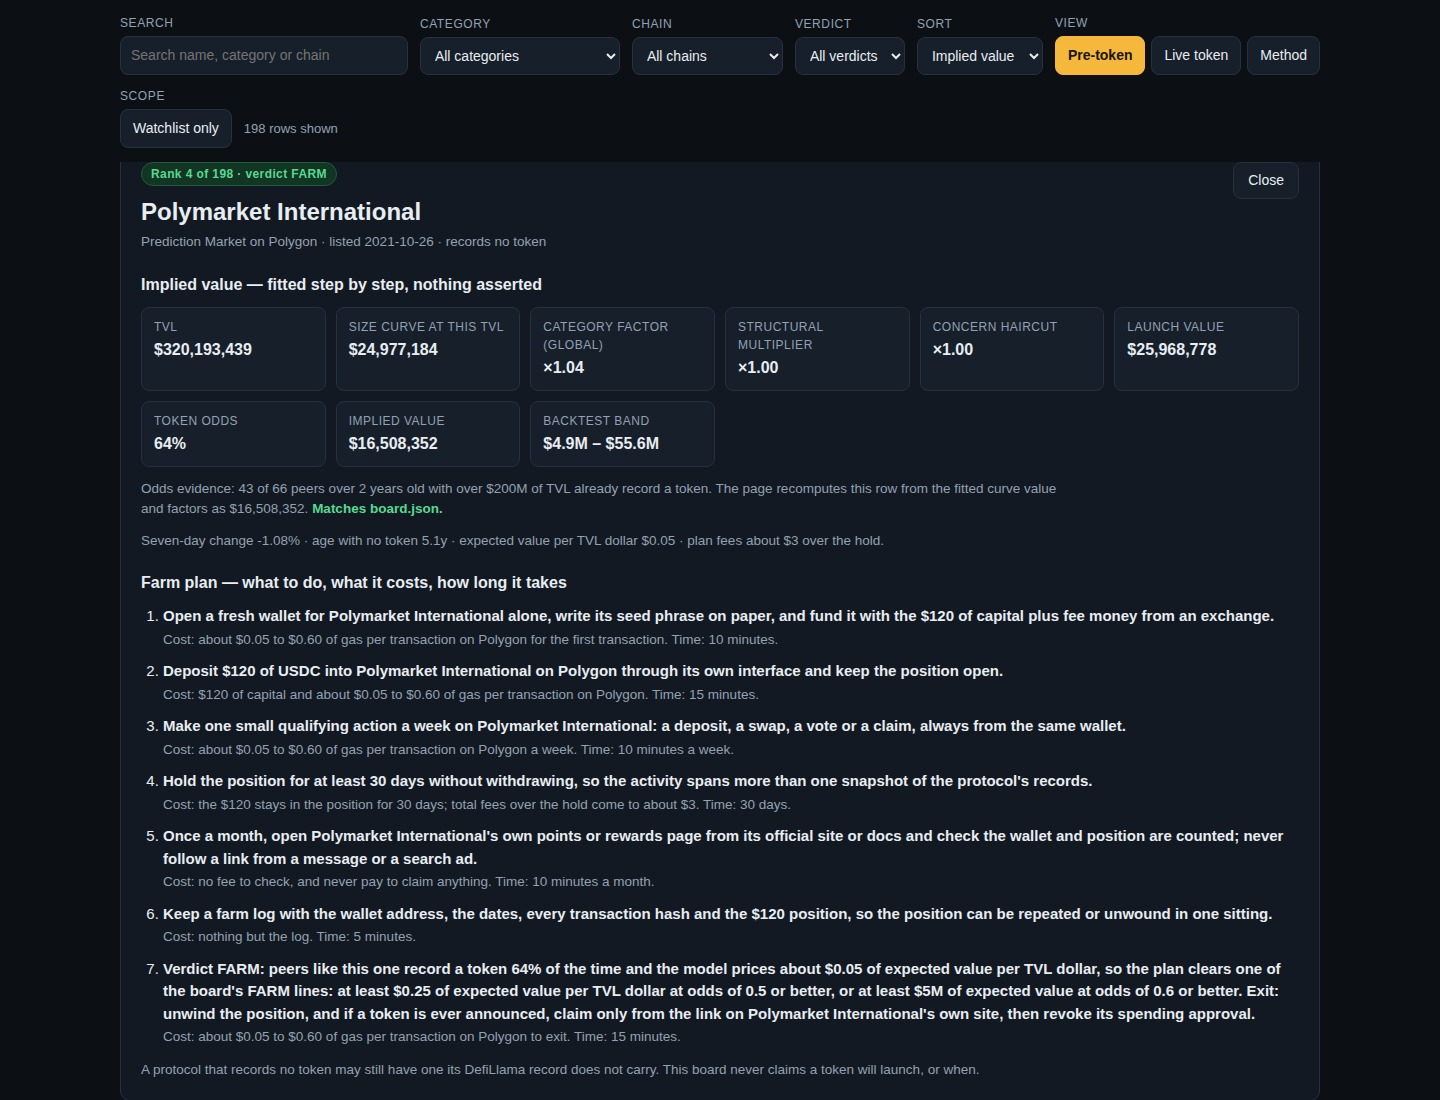
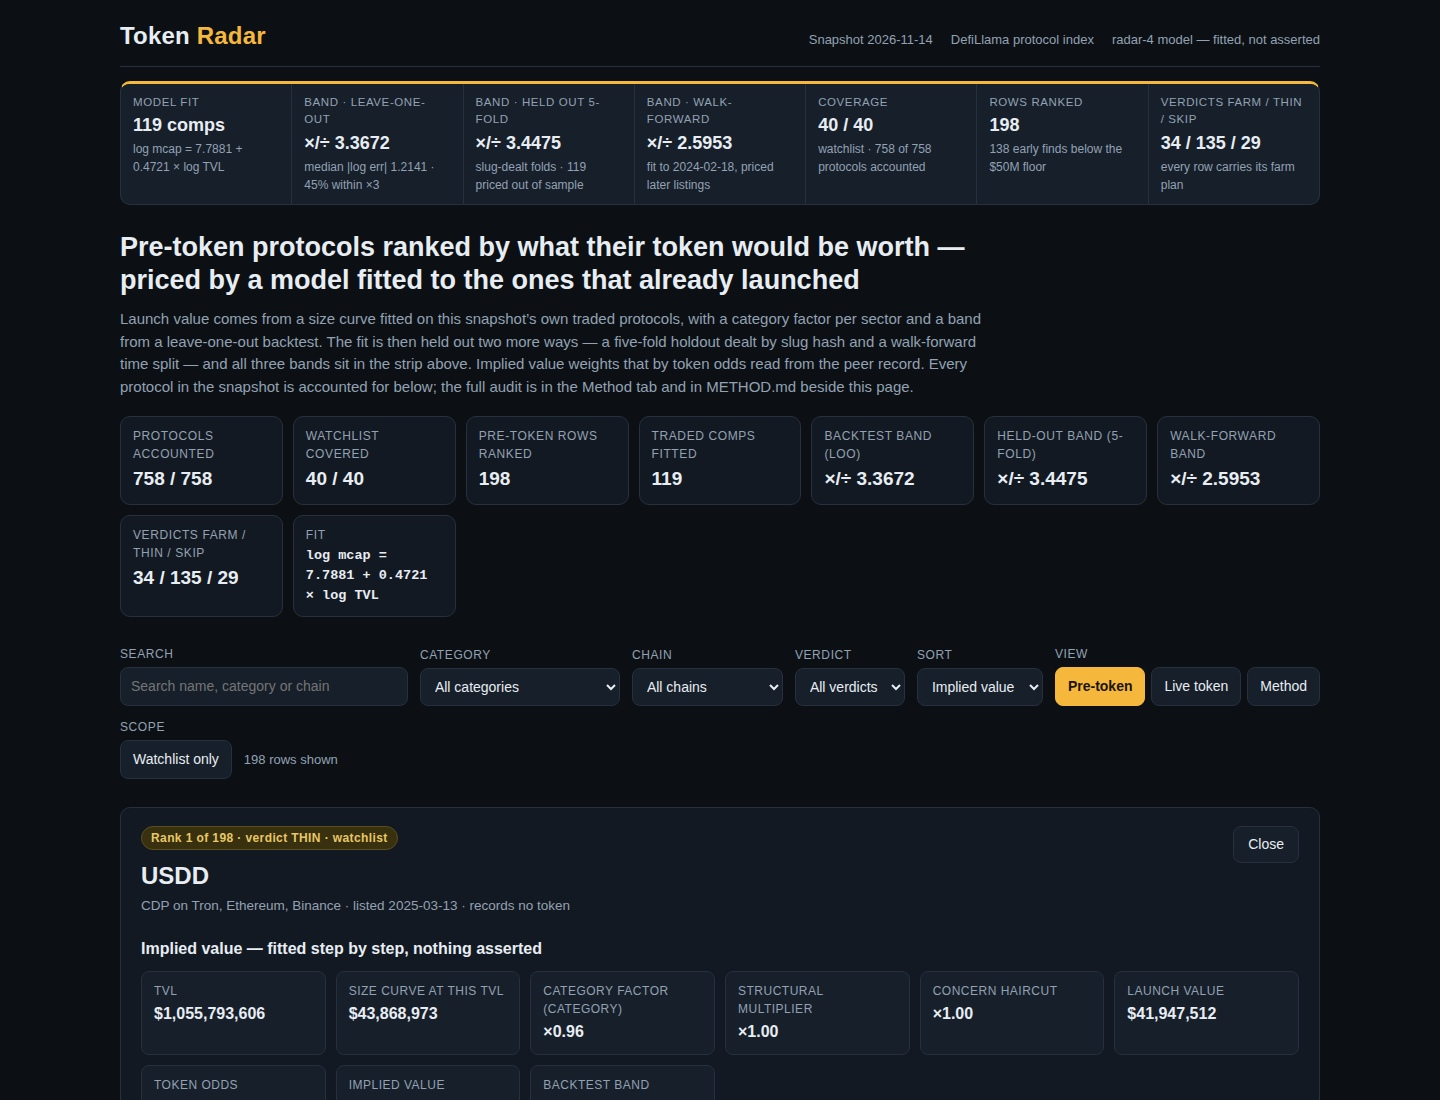
radar-4: second held-out validation (slug-dealt 5-fold) + KPI strip
Model and board unchanged from radar-3 (board.json byte-identical);
validation widens from two backtests to three: leave-one-out (x/3.37),
a five-fold holdout dealt by slug hash pricing all 119 comps out of
sample (median |log err| 1.2376, x/3.45), and the walk-forward time
split (x/2.60). Dashboard opens with a KPI strip carrying the fit, all
three bands, coverage 40/40 and 758/758, 198 rows, verdicts 34/135/29;
Method panel and generated METHOD.md report the new holdout too.
Screenshots re-shot at 1440x1100, 310-330 KB each.

diff --git a/dashboard/app.js b/dashboard/app.js
@@ -1,9 +1,9 @@
-// Token Radar dashboard, model radar-3. Reads window.RADAR (written beside
-// dashboard/ by main.ts) and renders the ranked board, filters, a per-protocol
-// detail panel, the live-token view and the method panel. No network: every
-// byte it shows is in data.js, and every value it shows is recomputed here
-// from the fitted parameters data.js carries, so the page checks board.json
-// instead of trusting it.
+// Token Radar dashboard, model radar-4. Reads window.RADAR (written beside
+// dashboard/ by main.ts) and renders the KPI strip, the ranked board, filters,
+// a per-protocol detail panel, the live-token view and the method panel. No
+// network: every byte it shows is in data.js, and every value it shows is
+// recomputed here from the fitted parameters data.js carries, so the page
+// checks board.json instead of trusting it.
 (function () {
   'use strict';
 
@@ -140,18 +140,43 @@
     );
   }
 
+  // The KPI strip: the whole audit on one line at the top of the page — the
+  // fit, all three validation bands, coverage, the board's size and its
+  // verdicts — so a reader sees the evidence before the first row.
+  function kpiStrip() {
+    var f = DATA.fit;
+    var a = DATA.accounting;
+    function kpi(label, value, sub) {
+      return el('div', { class: 'kpi' },
+        el('span', { text: label }),
+        el('b', { text: value }),
+        el('small', { text: sub })
+      );
+    }
+    return el('section', { class: 'kpis', 'aria-label': 'Model validation and coverage' },
+      kpi('Model fit', f.comps + ' comps', 'log mcap = ' + f.intercept + ' + ' + f.slope + ' \u00d7 log TVL'),
+      kpi('Band \u00b7 leave-one-out', '\u00d7/\u00f7 ' + f.band_factor, 'median |log err| ' + f.loo_median_abs_log_err + ' \u00b7 ' + Math.round(f.loo_within_3x * 100) + '% within \u00d73'),
+      kpi('Band \u00b7 held out 5-fold', '\u00d7/\u00f7 ' + f.kf_band_factor, 'slug-dealt folds \u00b7 ' + f.kf_test + ' priced out of sample'),
+      kpi('Band \u00b7 walk-forward', '\u00d7/\u00f7 ' + f.wf_band_factor, 'fit to ' + f.wf_split_listed_at + ', priced later listings'),
+      kpi('Coverage', a.watchlist_ranked + ' / ' + a.watchlist, 'watchlist \u00b7 ' + a.total + ' of ' + a.total + ' protocols accounted'),
+      kpi('Rows ranked', String(a.ranked), DATA.early_size + ' early finds below the $50M floor'),
+      kpi('Verdicts FARM / THIN / SKIP', DATA.verdict_counts.FARM + ' / ' + DATA.verdict_counts.THIN + ' / ' + DATA.verdict_counts.SKIP, 'every row carries its farm plan')
+    );
+  }
+
   function hero() {
     var f = DATA.fit;
     var a = DATA.accounting;
     return el('section', { class: 'hero' },
       el('h1', { text: 'Pre-token protocols ranked by what their token would be worth — priced by a model fitted to the ones that already launched' }),
-      el('p', { text: 'Launch value comes from a size curve fitted on this snapshot\u2019s own traded protocols, with a category factor per sector and a band from a leave-one-out backtest. Implied value weights that by token odds read from the peer record. Every protocol in the snapshot is accounted for below; the full audit is in the Method tab and in METHOD.md beside this page.' }),
+      el('p', { text: 'Launch value comes from a size curve fitted on this snapshot\u2019s own traded protocols, with a category factor per sector and a band from a leave-one-out backtest. The fit is then held out two more ways \u2014 a five-fold holdout dealt by slug hash and a walk-forward time split \u2014 and all three bands sit in the strip above. Implied value weights that by token odds read from the peer record. Every protocol in the snapshot is accounted for below; the full audit is in the Method tab and in METHOD.md beside this page.' }),
       el('div', { class: 'stats' },
         el('div', { class: 'stat' }, el('span', { text: 'Protocols accounted' }), el('b', { text: a.total + ' / ' + a.total })),
         el('div', { class: 'stat' }, el('span', { text: 'Watchlist covered' }), el('b', { text: a.watchlist_ranked + ' / ' + a.watchlist })),
         el('div', { class: 'stat' }, el('span', { text: 'Pre-token rows ranked' }), el('b', { text: String(a.ranked) })),
         el('div', { class: 'stat' }, el('span', { text: 'Traded comps fitted' }), el('b', { text: String(f.comps) })),
         el('div', { class: 'stat' }, el('span', { text: 'Backtest band (LOO)' }), el('b', { text: '\u00d7/\u00f7 ' + f.band_factor })),
+        el('div', { class: 'stat' }, el('span', { text: 'Held-out band (5-fold)' }), el('b', { text: '\u00d7/\u00f7 ' + f.kf_band_factor })),
         el('div', { class: 'stat' }, el('span', { text: 'Walk-forward band' }), el('b', { text: '\u00d7/\u00f7 ' + f.wf_band_factor })),
         el('div', { class: 'stat' }, el('span', { text: 'Verdicts FARM / THIN / SKIP' }), el('b', { text: DATA.verdict_counts.FARM + ' / ' + DATA.verdict_counts.THIN + ' / ' + DATA.verdict_counts.SKIP })),
         el('div', { class: 'stat' }, el('span', { text: 'Fit' }), el('b', { class: 'fitfig', text: 'log mcap = ' + f.intercept + ' + ' + f.slope + ' \u00d7 log TVL' }))
@@ -361,8 +386,12 @@
       el('div', { class: 'cell' }, el('span', { text: 'Comps priced within \u00d72 / \u00d73 (LOO)' }), el('b', { text: Math.round(f.loo_within_2x * 100) + '% / ' + Math.round(f.loo_within_3x * 100) + '%' })),
       el('div', { class: 'cell' }, el('span', { text: 'Walk-forward fit / test' }), el('b', { text: f.wf_train + ' / ' + f.wf_test + ' comps' })),
       el('div', { class: 'cell' }, el('span', { text: 'Walk-forward median |log error|' }), el('b', { text: String(f.wf_median_abs_log_err) })),
-      el('div', { class: 'cell' }, el('span', { text: 'Walk-forward within \u00d73' }), el('b', { text: Math.round(f.wf_within_3x * 100) + '%' }))
+      el('div', { class: 'cell' }, el('span', { text: 'Walk-forward within \u00d73' }), el('b', { text: Math.round(f.wf_within_3x * 100) + '%' })),
+      el('div', { class: 'cell' }, el('span', { text: 'Held-out folds (slug-dealt)' }), el('b', { text: f.kf_folds + ' folds \u00b7 ' + f.kf_test + ' comps' })),
+      el('div', { class: 'cell' }, el('span', { text: 'Held-out median |log error|' }), el('b', { text: String(f.kf_median_abs_log_err) })),
+      el('div', { class: 'cell' }, el('span', { text: 'Held-out band / within \u00d73' }), el('b', { text: '\u00d7/\u00f7 ' + f.kf_band_factor + ' \u00b7 ' + Math.round(f.kf_within_3x * 100) + '%' }))
     ));
+    panel.appendChild(el('p', { class: 'note', text: 'The second holdout ignores time on purpose: the comps are dealt into ' + f.kf_folds + ' folds by a hash of the slug, each fold is priced by a model fitted on the other four, and every comp is priced exactly once, out of sample. A split that cannot see the listing order cannot be flattered by it, so it checks the walk-forward rather than repeating it.' }));
     panel.appendChild(el('p', { class: 'note', text: 'Walk-forward: fit on the comps listed by ' + f.wf_split_listed_at + ', price the ones listed later. Growth is not a launch-value input, on this evidence: ' + f.comps_grew_5 + ' of the ' + f.comps + ' comps grew more than 5% in the snapshot week and ' + f.comps_fell_5 + ' fell more than 5%, so a fitted growth slope would be a falling week\u2019s artefact; growth enters through the odds peers, the concern haircut and the verdicts.' }));
     panel.appendChild(el('h3', { text: 'Category factors (fitted; source shown)' }));
     panel.appendChild(el('div', { class: 'sectors' }, DATA.factors.map(function (r) {
@@ -398,6 +427,7 @@
     app.textContent = '';
     var shell = el('div', { class: 'shell' });
     shell.appendChild(topbar());
+    shell.appendChild(kpiStrip());
     shell.appendChild(hero());
     shell.appendChild(controls());
     if (state.tab === 'pre-token') {

diff --git a/lib/model.ts b/lib/model.ts
@@ -1,6 +1,17 @@
-// Token Radar model "radar-3": one sealed snapshot in, one ranked board out.
+// Token Radar model "radar-4": one sealed snapshot in, one ranked board out.
 //
-// radar-3 replaces radar-2's asserted multiple (a flat TVL x 0.32 with
+// radar-4 keeps radar-3's fitted model exactly as it was — the same size
+// curve, category factors, token odds, priors and verdict lines, so every
+// row's price is unchanged — and widens the validation around it. Where
+// radar-3 reported two backtests (leave-one-out and a walk-forward time
+// split), radar-4 adds a second, independent held-out test: a five-fold
+// holdout whose folds are dealt by a hash of the protocol's slug, so the
+// split owes nothing to listing date, size or the order of the snapshot.
+// A comp is only ever priced by a model that never saw it, three different
+// ways, and all three error bands are printed on the dashboard and in
+// METHOD.md.
+//
+// radar-3 replaced radar-2's asserted multiple (a flat TVL x 0.32 with
 // hand-picked sector factors) with a model fitted to the snapshot's own traded
 // protocols, validated inside this program, and priced with its uncertainty
 // shown. Nothing is keyed to a protocol's name; every number below is either
@@ -32,8 +43,11 @@
 //
 // The band on every row is exp(median |log error|) of a leave-one-out
 // backtest of the launch model over the traded comps, recomputed each run.
-// A walk-forward split (fit on the earlier-listed half of the comps, scored
-// on the later half) is reported beside it on the dashboard and in METHOD.md.
+// Two further held-out tests are reported beside it on the dashboard and in
+// METHOD.md: a walk-forward split (fit on the earlier-listed half of the
+// comps, scored on the later half) and a five-fold holdout dealt by slug
+// hash (fit on four folds, score the fifth, rotate until every comp has
+// been priced out of sample exactly once).
 //
 // Seven-day growth is deliberately NOT a launch-value input: fitted on the
 // traded comps its slope comes out negative and regime-bound (the snapshot
@@ -93,7 +107,10 @@ export const CURATOR_CATEGORIES: ReadonlySet<string> = new Set([
   'Onchain Capital Allocator',
 ]);
 
-export const MODEL_VERSION = 'radar-3';
+export const MODEL_VERSION = 'radar-4';
+
+/** How many folds the slug-dealt holdout rotates through. */
+export const HOLDOUT_FOLDS = 5;
 
 /** How many live-token protocols the dashboard's Live view carries, by market cap. */
 export const LIVE_ROWS = 24;
@@ -196,6 +213,12 @@ export interface FitReport {
   wf_median_abs_log_err: number;
   wf_band_factor: number;
   wf_within_3x: number;
+  kf_folds: number;
+  kf_test: number;
+  kf_median_abs_log_err: number;
+  kf_band_factor: number;
+  kf_within_2x: number;
+  kf_within_3x: number;
   comps_grew_5: number;
   comps_fell_5: number;
   traded_total: number;
@@ -489,9 +512,27 @@ function launchError(model: FittedModel, comp: SnapshotProtocol): number {
 }
 
 /**
- * Both backtests, run on every build: leave-one-out over all traded comps
- * (refit without the comp, then price it), and a walk-forward split that fits
- * on the earlier-listed half of the dated comps and prices the later half.
+ * Which holdout fold a comp belongs to: a 32-bit FNV-1a hash of its slug,
+ * taken modulo the fold count. The deal is a pure function of the slug, so
+ * it is identical on every run and owes nothing to the comp's listing date,
+ * its size, or its place in the snapshot — the property that makes this
+ * holdout independent of the walk-forward's time split.
+ */
+function foldOf(slug: string, folds: number): number {
+  let h = 0x811c9dc5;
+  for (let i = 0; i < slug.length; i++) {
+    h ^= slug.charCodeAt(i);
+    h = Math.imul(h, 0x01000193);
+  }
+  return (h >>> 0) % folds;
+}
+
+/**
+ * All three backtests, run on every build: leave-one-out over all traded
+ * comps (refit without the comp, then price it), a walk-forward split that
+ * fits on the earlier-listed half of the dated comps and prices the later
+ * half, and a five-fold holdout dealt by slug hash that fits on four folds
+ * and prices the fifth, rotating until every comp has been held out once.
  */
 function backtests(comps: SnapshotProtocol[]): Omit<FitReport, 'comps' | 'intercept' | 'slope' | 'comps_grew_5' | 'comps_fell_5' | 'traded_total' | 'traded_share'> {
   const looErrors: number[] = [];
@@ -511,6 +552,16 @@ function backtests(comps: SnapshotProtocol[]): Omit<FitReport, 'comps' | 'interc
   const wfErrors = test.map((p) => launchError(wfModel, p));
   const wfMedian = median(wfErrors);
 
+  const kfErrors: number[] = [];
+  for (let fold = 0; fold < HOLDOUT_FOLDS; fold++) {
+    const kfTrain = comps.filter((p) => foldOf(p.slug, HOLDOUT_FOLDS) !== fold);
+    const kfTest = comps.filter((p) => foldOf(p.slug, HOLDOUT_FOLDS) === fold);
+    if (kfTrain.length === 0 || kfTest.length === 0) continue;
+    const kfModel = fitModel(kfTrain);
+    for (const p of kfTest) kfErrors.push(launchError(kfModel, p));
+  }
+  const kfMedian = median(kfErrors);
+
   const share = (errors: number[], limit: number): number =>
     errors.length === 0 ? 0 : round3(errors.filter((e) => e < limit).length / errors.length);
 
@@ -525,6 +576,12 @@ function backtests(comps: SnapshotProtocol[]): Omit<FitReport, 'comps' | 'interc
     wf_median_abs_log_err: round4(wfMedian),
     wf_band_factor: round4(Math.exp(wfMedian)),
     wf_within_3x: share(wfErrors, Math.log(3)),
+    kf_folds: HOLDOUT_FOLDS,
+    kf_test: kfErrors.length,
+    kf_median_abs_log_err: round4(kfMedian),
+    kf_band_factor: round4(Math.exp(kfMedian)),
+    kf_within_2x: share(kfErrors, Math.log(2)),
+    kf_within_3x: share(kfErrors, Math.log(3)),
   };
 }
 
@@ -1073,6 +1130,13 @@ export function methodDocument(radar: RadarData): string {
     `- Walk-forward: fitting on the ${f.wf_train} comps listed by ${f.wf_split_listed_at} and pricing the ` +
       `${f.wf_test} listed later gives a median absolute log error of ${f.wf_median_abs_log_err} (x/${f.wf_band_factor}), ` +
       `${Math.round(f.wf_within_3x * 100)}% within x3 — the model is not just memorising the comps it shows.`,
+  );
+  lines.push(
+    `- Held out a second way, on a split that ignores time: the comps are dealt into ${f.kf_folds} folds by a hash ` +
+      `of the slug, each fold is priced by a model fitted on the other four, and all ${f.kf_test} comps are priced ` +
+      `exactly once, out of sample. Median absolute log error ${f.kf_median_abs_log_err} (x/${f.kf_band_factor}), ` +
+      `${Math.round(f.kf_within_2x * 100)}% within x2 and ${Math.round(f.kf_within_3x * 100)}% within x3. Because the ` +
+      `deal depends only on the slug, this test cannot be flattered by the listing order the walk-forward reads.`,
   );
   lines.push(
     `- Growth is not a launch-value input, on this evidence: ${f.comps_grew_5} of the ${f.comps} comps grew more ` +

diff --git a/dashboard/app.css b/dashboard/app.css
@@ -1,4 +1,4 @@
-/* Token Radar, radar-3: a dark plotting-room theme. Amber is the signal
+/* Token Radar, radar-4: a dark plotting-room theme. Amber is the signal
    colour, slate the paper; numbers are tabular so columns hold still. */
 :root {
   --ink: #0c1015;
@@ -50,6 +50,16 @@ body {
 .stat span { color: var(--muted); font-size: 12px; text-transform: uppercase; letter-spacing: 0.6px; }
 .stat b { font-size: 19px; font-variant-numeric: tabular-nums; }
 .stat b.fitfig { font-size: 13.5px; font-family: ui-monospace, "SF Mono", Menlo, Consolas, monospace; }
+.kpis {
+  display: grid; grid-template-columns: repeat(auto-fit, minmax(160px, 1fr));
+  gap: 1px; margin-top: 14px; background: var(--line);
+  border: 1px solid var(--line); border-top: 3px solid var(--accent);
+  border-radius: var(--radius); overflow: hidden;
+}
+.kpi { background: var(--panel-2); padding: 10px 12px; display: flex; flex-direction: column; gap: 1px; }
+.kpi span { color: var(--muted); font-size: 11.5px; text-transform: uppercase; letter-spacing: 0.6px; }
+.kpi b { font-size: 18px; font-variant-numeric: tabular-nums; }
+.kpi small { color: var(--muted); font-size: 12px; font-variant-numeric: tabular-nums; }
 .controls {
   display: flex; gap: 12px; align-items: end; flex-wrap: wrap;
   padding: 14px 0; position: sticky; top: 0; background: var(--ink); z-index: 5;

diff --git a/main.ts b/main.ts
@@ -1,8 +1,10 @@
-// Token Radar, model radar-3 (Node 22, standard library only).
+// Token Radar, model radar-4 (Node 22, standard library only).
 //
 // Reads the sealed snapshot at /input/snapshot.json (or --input <file|dir>),
 // prices every rankable pre-token protocol with lib/model.ts (a launch model
-// fitted to the snapshot's own traded protocols, backtested in-program),
+// fitted to the snapshot's own traded protocols, backtested in-program three
+// ways: leave-one-out, a walk-forward time split, and a slug-dealt five-fold
+// holdout),
 // writes the ranked board to /output/board.json, the dashboard's data to
 // /output/data.js, copies dashboard/ and screenshots/ into /output, writes
 // the model's audit as /output/dashboard/METHOD.md, and writes

diff --git a/dashboard/index.html b/dashboard/index.html
@@ -3,7 +3,7 @@
 <head>
 <meta charset="utf-8">
 <meta name="viewport" content="width=device-width, initial-scale=1">
-<title>Token Radar — pre-token protocols priced by a fitted model, ranked by implied value</title>
+<title>Token Radar · Radar-4 — fitted log-log value model, held-out tested twice plus walk-forward, pre-token protocols ranked by implied value</title>
 <link rel="stylesheet" href="app.css">
 </head>
 <body>

diff --git a/README.md b/README.md
@@ -6,13 +6,13 @@
 
 Token launch radar: pre-token protocols ranked by implied value, with farm plans. Built by an AI agent for make.fun's token-radar-01 bounty, $1325 in USDC.
 
-## The model (radar-3)
+## The model (radar-4)
 
-Nothing on this board is asserted. The value model is **fitted at run time to the snapshot's own traded protocols** and backtested inside the program on every run:
+Nothing on this board is asserted. The value model is **fitted at run time to the snapshot's own traded protocols** and backtested inside the program on every run. Radar-4 prices every row exactly as radar-3 did — the board is byte-identical — and widens the validation around the fit from two backtests to three:
 
 - **Size curve.** OLS of log market cap on log TVL over the traded comps (market cap and TVL both on record, exchange tokens excluded) — on the 2026-11-14 snapshot: `log(market cap) = 7.7881 + 0.4721 × log(TVL)` over 119 comps.
 - **Category factors.** Each category's median residual against the curve, shrunk by n/(n+4) and damped to half strength in log space, with family and global fallbacks.
-- **Validation.** A leave-one-out backtest over all comps sets every row's uncertainty band (median |log error| 1.2141 → ×/÷ 3.37); a walk-forward split at the median listing date (2024-02-18) gives a second, out-of-time error (median 0.9537, ×/÷ 2.60).
+- **Validation, three ways.** A leave-one-out backtest over all comps sets every row's uncertainty band (median |log error| 1.2141 → ×/÷ 3.37). A five-fold holdout dealt by a hash of the slug — a split that ignores listing time entirely — prices all 119 comps out of sample (median 1.2376, ×/÷ 3.45). A walk-forward split at the median listing date (2024-02-18) gives the out-of-time error (median 0.9537, ×/÷ 2.60). The dashboard opens with a KPI strip carrying the fit, all three bands, coverage and verdict counts.
 - **Token odds.** The share of age×TVL peer protocols that already record a token, shrunk toward the global traded share — applied as a separate, visible multiplier: implied value = launch value × odds.
 - **Priors, stated as priors.** A ×0.5 structural multiplier for curator/nested-TVL protocols, a ×0.9 concern haircut (7-day fall ≥ 25% or under 21 days on record), and the FARM / THIN / SKIP verdict lines. Growth is deliberately not a launch-value input: in the snapshot week 0 of 119 comps grew more than 5% while 88 fell more than 5%, so a fitted growth slope would be one falling week's artefact.
 
